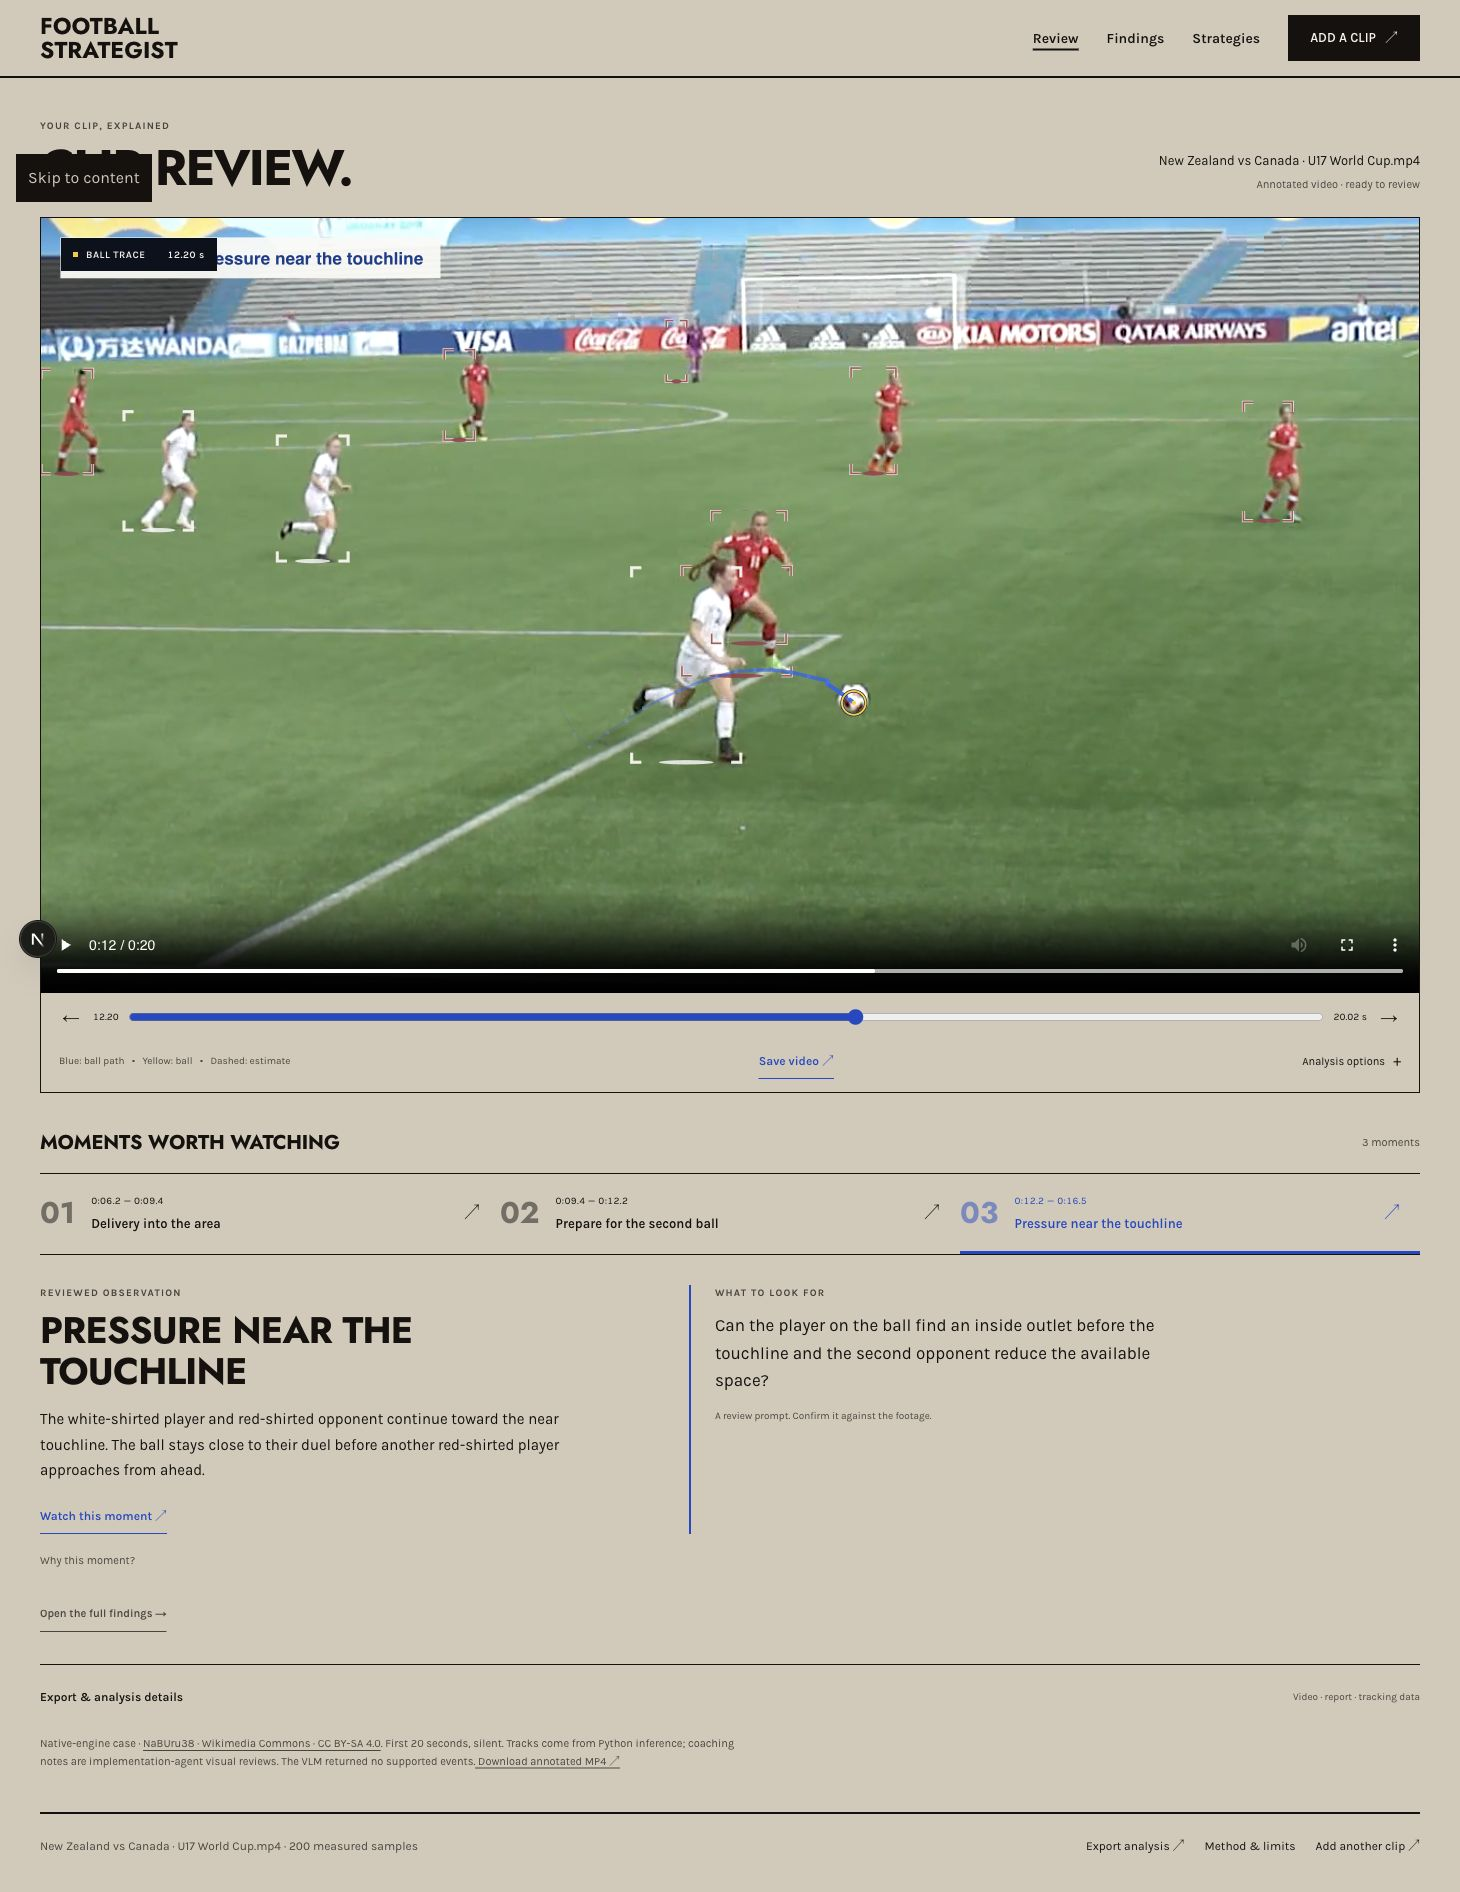
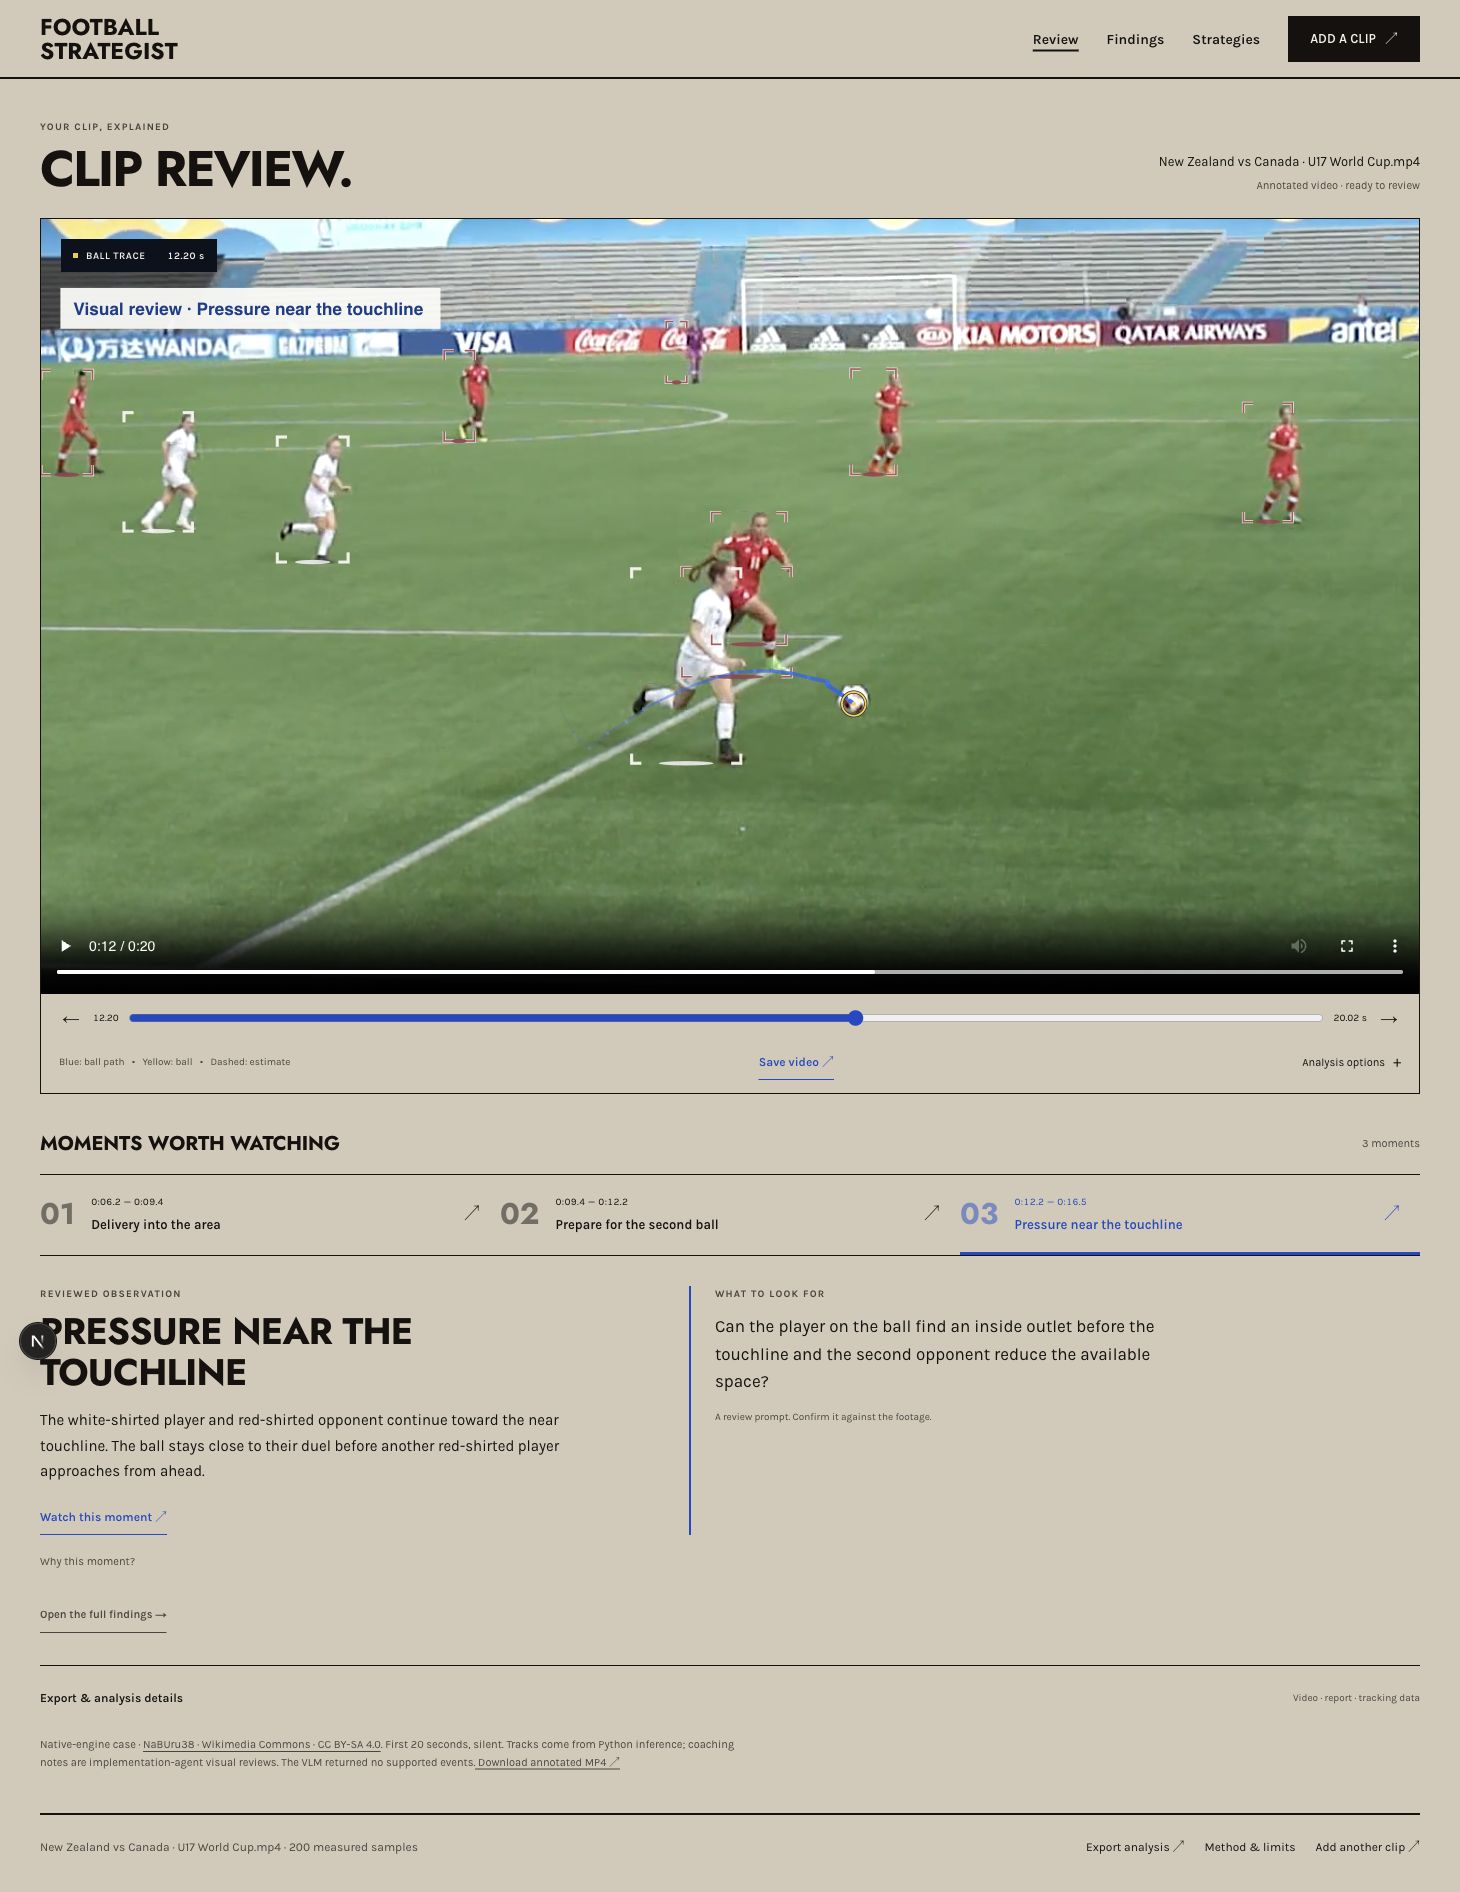
Refresh native case evidence and clip the unfocused skip link

diff --git a/src/app/werkstatt.css b/src/app/werkstatt.css
@@ -70,15 +70,23 @@ body {
 }
 .wk-skip {
   position: fixed;
-  top: -80px;
+  top: 12px;
+  clip-path: inset(50%);
+  width: 1px;
+  height: 1px;
+  overflow: hidden;
   left: 16px;
   z-index: 100;
-  padding: 12px;
+  padding: 0;
   background: var(--color-ink);
   color: var(--color-paper);
 }
 .wk-skip:focus-visible {
-  top: 12px;
+  clip-path: none;
+  width: auto;
+  height: auto;
+  padding: 12px;
+  overflow: visible;
 }
 .wk-header {
   border-bottom: 2px solid var(--color-ink);
